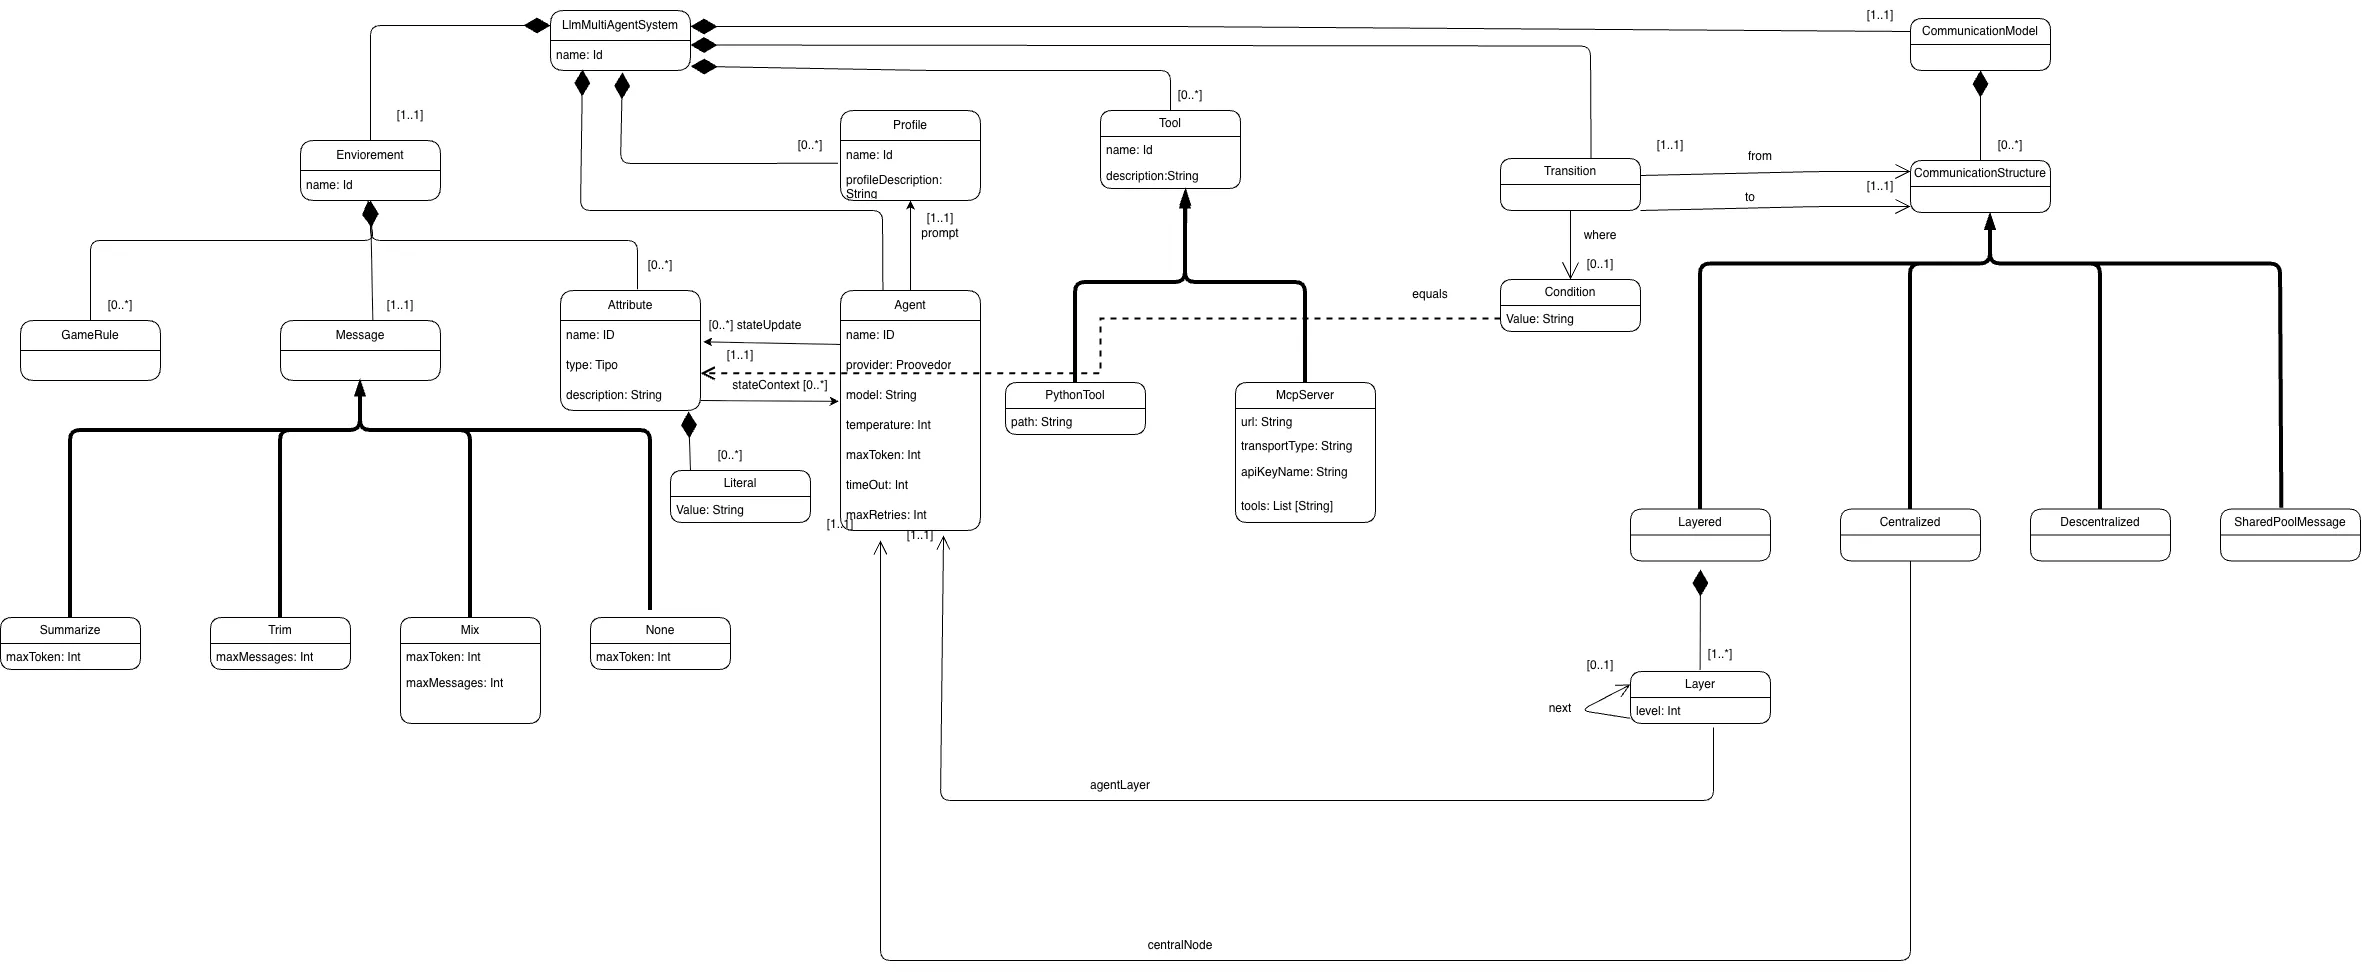
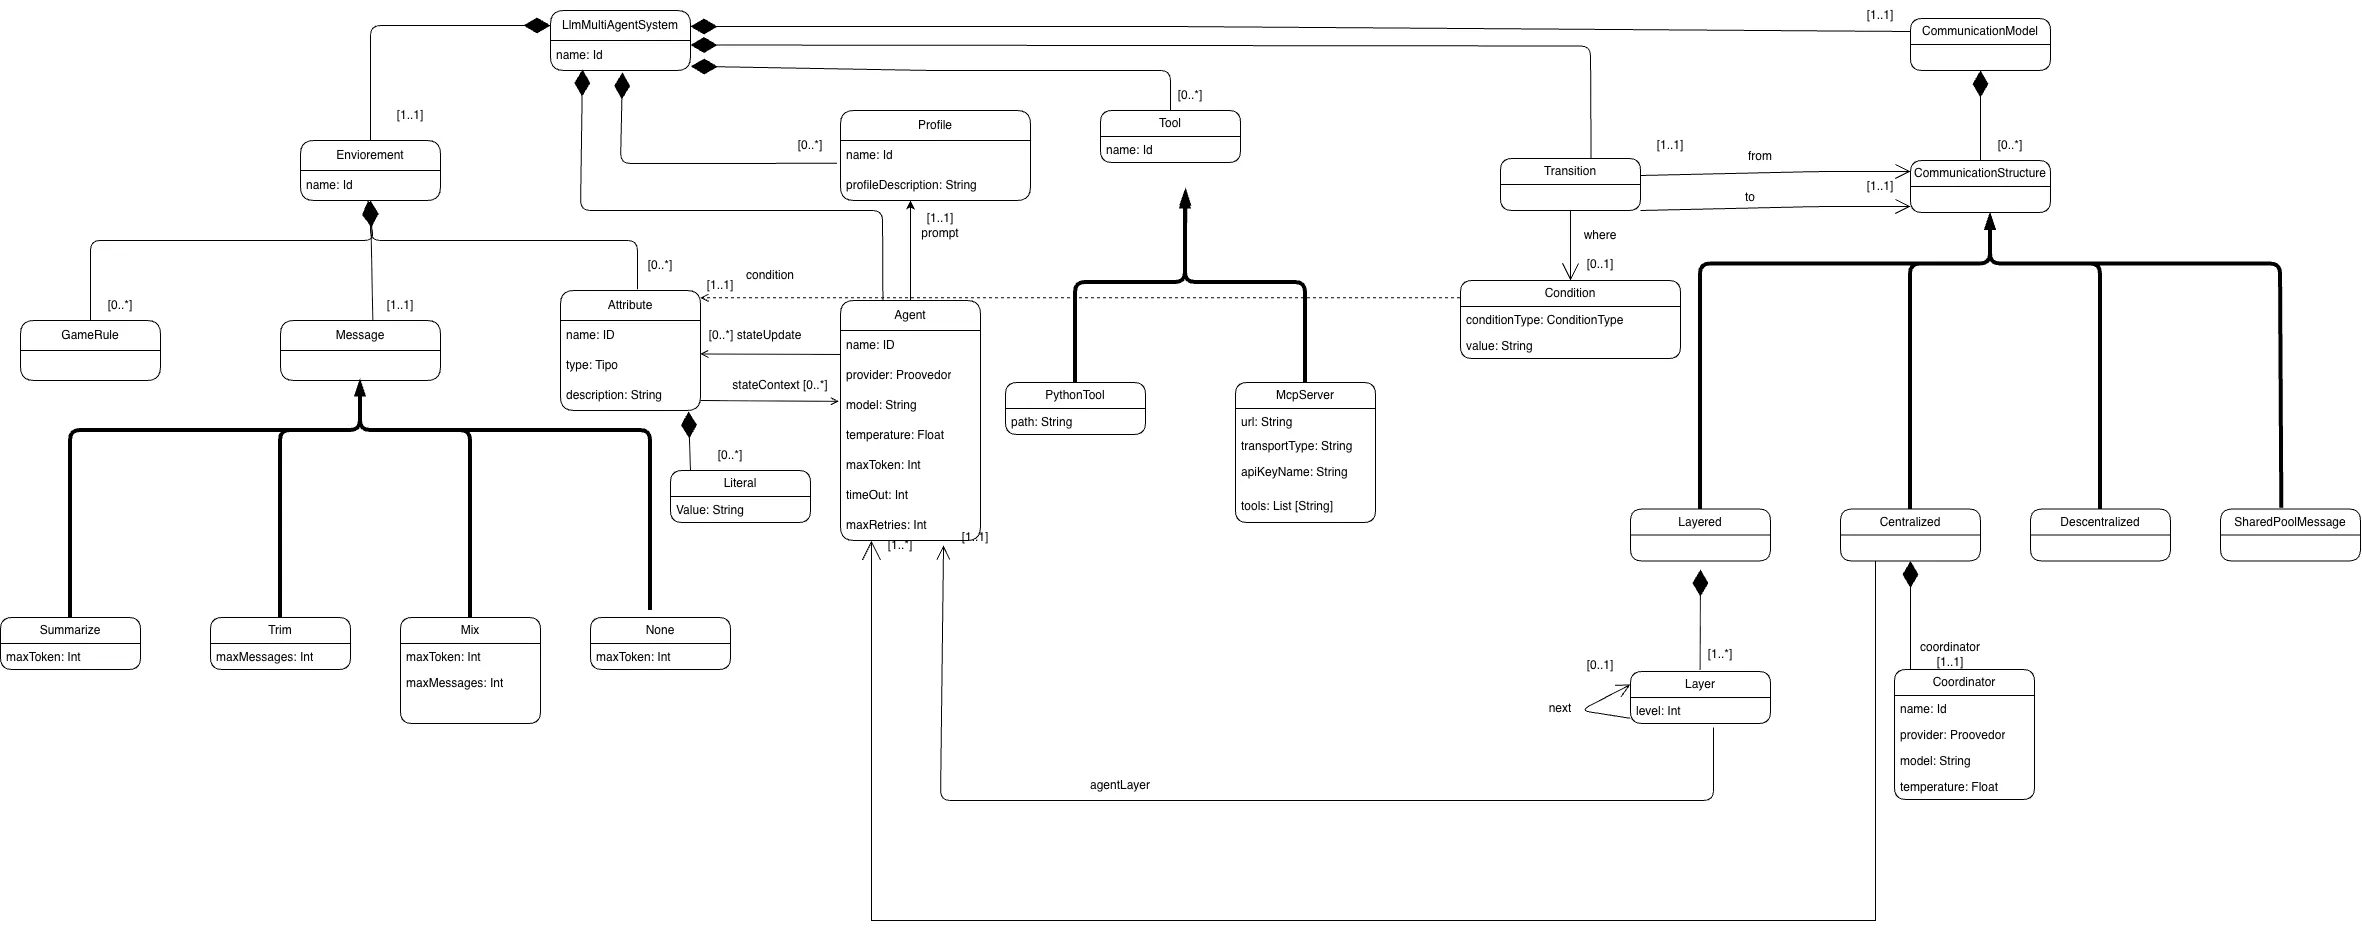
Arreglos menores: Mejoras de la sintaxis, backlog actualizado, metamodelo.md actualizado y restricciones actualizadas

diff --git a/packages/cli/src/generators/agentsGenerator.ts b/packages/cli/src/generators/agentsGenerator.ts
@@ -33,7 +33,7 @@ function generateModel(agent: Agent): string {
 
     const params: string[] = [
         `model="${toModel(agent)}"`,
-        `temperature=${agent.temperature ?? 0}`,
+        `temperature=${agent.temperature ?? 0.0}`,
     ];
     if (agent.provider === 'ollama') params.push(`base_url=OLLAMA_BASE_URL`);
     if (agent.maxToken)   params.push(`max_tokens=${agent.maxToken}`);
@@ -65,7 +65,7 @@ function generateNode(agent: Agent): string {
     const nodeName = generateNodeName(agent);
     const modelName = `model${agentPascal}`;
     const profileName = agent.profile.ref!.name.toUpperCase();
-    const description = agent.description?.[0] ?? '';
+    const description = agent.description ?? '';
     const className = agentPascal + 'Output';
 
     const contextFields = agent.stateContext && agent.stateContext.length > 0

diff --git a/packages/cli/src/generators/edges/centralized.ts b/packages/cli/src/generators/edges/centralized.ts
@@ -28,7 +28,7 @@ function generateRouterClass(memberNames: string[]): string {
 function generateCoordinatorModel(coordinator: Coordinator): string {
     const params: string[] = [
         `model="${coordinator.provider}:${coordinator.model}"`,
-        `temperature=${coordinator.temperature ?? 0}`,
+        `temperature=${coordinator.temperature ?? 0.0}`,
     ];
     if (coordinator.provider === 'ollama') params.push(`base_url=OLLAMA_BASE_URL`);
     return `modelCoordinator = init_chat_model(${params.join(', ')})`;

diff --git a/docs/restricciones.md b/docs/restricciones.md
@@ -9,12 +9,13 @@ Los niveles de las capas dentro de un `Layered` deben ser únicos.
 - **Detectada en:** iteración 1
 - **Prototipo:** research-assistant
 
-### R002 — Summarize y Mix solo en grafos cíclicos
-Si la estructura de comunicación es lineal, no se puede usar `Summarize` ni `Mix`.
+### R002 — Summarize y Mix solo en grafos cíclicos *(descartada)*
+~~Si la estructura de comunicación es lineal, no se puede usar `Summarize` ni `Mix`.~~
 - **Detectada en:** iteración 4
 - **Prototipo:** cvReviewer
 - **ADR relacionado:** adr/002-summarize&mixReducer.md
 - **Pendiente relacionado:** Mecanismos de bifurcación
+- **Motivo del descarte:** Los grafos pueden ejecutarse múltiples veces con estado persistente (checkpointer de LangGraph). En ese contexto, los mensajes se acumulan entre ejecuciones aunque la estructura interna sea lineal, por lo que `Summarize` y `Mix` son igual de pertinentes en grafos lineales.
 
 ### R003 - Estructuras de comunicación unidas.
 Todas las estructuras de comunciacion deben estar entrelazadas de tal forma que no haya ninguna estructura de comunicación a la que sea imposible de acceder. Algoritmo de grafos.
@@ -45,5 +46,6 @@ El tipo del valor literal empleado en una condición de transición debe ser com
 Se puede tener una transición sin condición junto a otras transiciones con condiciones, pero tan solo una. La idea de esto es permitir un camino de else en los router, es decir, si no se cumple ni A ni B puedes ir a C. Pero si se usan varias transiciones sin condición, la entrada será invalida.
 - **Detectada en:** Creación de la v0.5.1 del generador de código.
 
-### R10 - Compatibilidad de tipos en las condiciones
-Si es una comparación booleana, el valor de "**valor**" solo puede ser True o False.
+### R10 - Temperatura de los agentes
+La temperatura del agente debe estar entre 0.0 y 1.0
+- **Detectada en:** minor fixes de la sintáxis de la gramática del .langium

diff --git a/docs/backlog.md b/docs/backlog.md
@@ -3,6 +3,7 @@
 | Prioridad | Tarea | Esfuerzo | Descripción |
 |---|---|---|---|
 | 🔴 Alta | Restricciones de bien-formedness | Medio | Redactar e implementar en el validator todas las restricciones OCL identificadas. Catálogo provisional en `restricciones.md`. | 
+| 🔴 Alta | Estado persistente | Baja | Evolucionar el DSl y generador de código para que se genere código que permita guardar estados de forma persistente en una base de datos | 
 | 🟡 Media | Añadir literales | Muy Bajo | Permitir que en los tipos ya existentes del estado se puedan definir literales es decir, los valores posibles|
 | 🟡 Media | Añadir listas | Muy Bajo | Permitir que se puedan incluir listas como atributos del estado|
 | 🟡 Media | Generación de código de estructura `SharedMessagePool` | Medio |Implementar en el generador la traducción de la estructura de comunicación `SharedMessagePool` (agentes que publican y consumen sobre un pool común de mensajes) al grafo de LangGraph. |

diff --git a/docs/metamodelo.md b/docs/metamodelo.md
@@ -89,7 +89,7 @@ Define un agente individual dentro del sistema. Referencia un `Profile` (su prom
 
 ### `Tool`
 
-Define herramientas que los agentes pueden utilizar para interactuar con sistemas externos. Todas las herramientas comparten una base común (`ToolBase`): nombre, descripción y parámetros opcionales tipados (`Param`). Existen tres tipos:
+Define herramientas que los agentes pueden utilizar para interactuar con sistemas externos. Todas las herramientas comparten una base común (`ToolBase`): nombre y parámetros opcionales tipados (`Param`). Existen dos tipos:
 
 #### `PythonTool`
 
